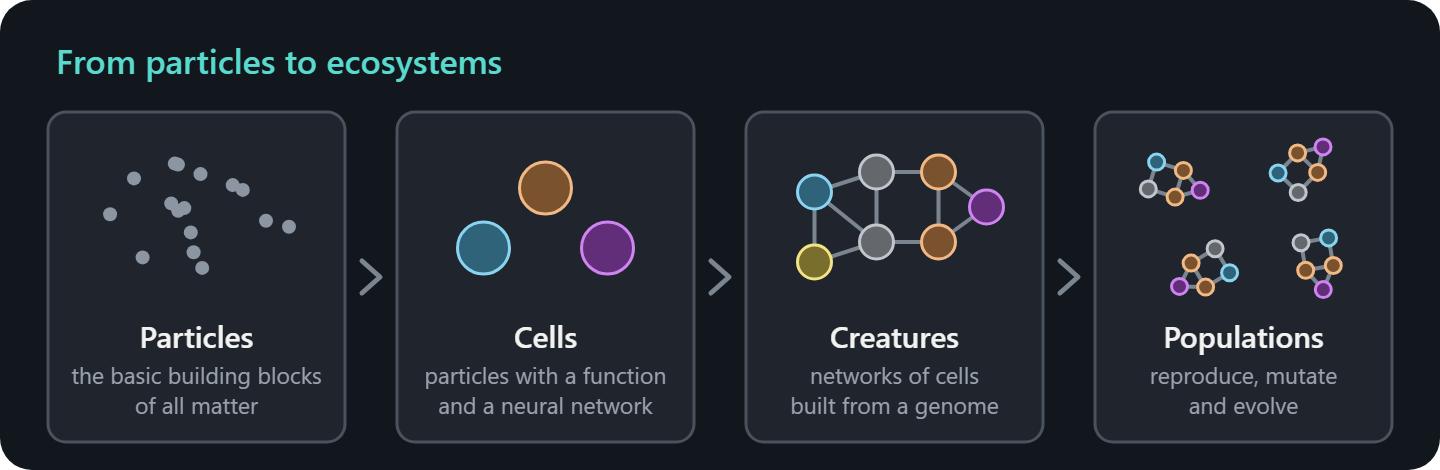
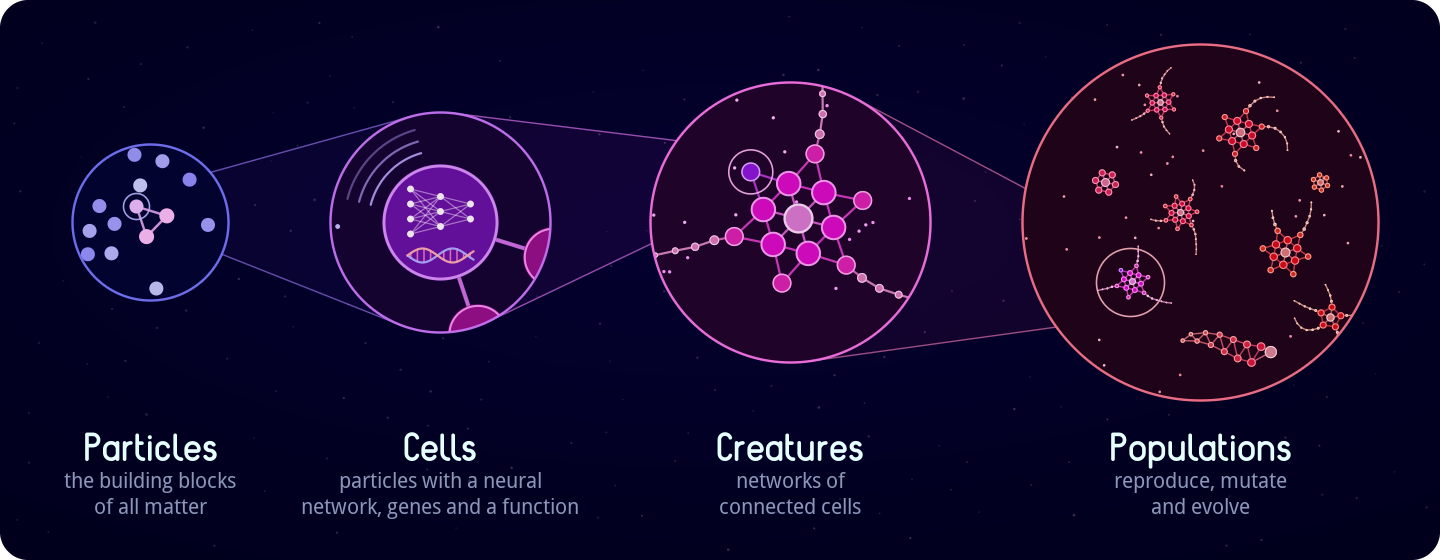
Redraw getting started schematic in ALIEN style

diff --git a/resources/docs/getting-started.md b/resources/docs/getting-started.md
@@ -2,7 +2,7 @@
 
 **ALIEN** (**A**rtificial **LI**fe **EN**vironment) is an artificial life simulator built on a GPU-accelerated 2D particle engine for soft bodies and fluids. Every object in a simulated world is composed of particles. They can be bonded into solid structures, flow as liquids or act as cells with specialized functions such as sensors, muscles and constructors, each controlled by a small neural network. Networks of such cells form creatures that perceive their environment, move, feed, compete and build offspring according to their genome. With mutations enabled, populations evolve and entire ecosystems emerge. The engine runs entirely on the graphics card and simulates worlds with millions of particles in real time.
 
-![Particles form cells, cells form creatures, and creatures form populations that evolve](images/particles-to-ecosystems.png)
+![Cells are particles with a neural network, genes and a function. Cells form creatures, and creatures form populations that evolve.](images/particles-to-ecosystems.png)
 
 This documentation is organized in three parts. **Start here** covers the first steps, the user interface and the control of ALIEN by AI agents. **Explore** introduces the central concepts step by step, from the physics sandbox to creature design, evolution and generative art. **Reference** documents every cell type, the genome format, the neural networks, all simulation parameters and the controls in detail. The search field above the table of contents finds any term across all chapters.
 
